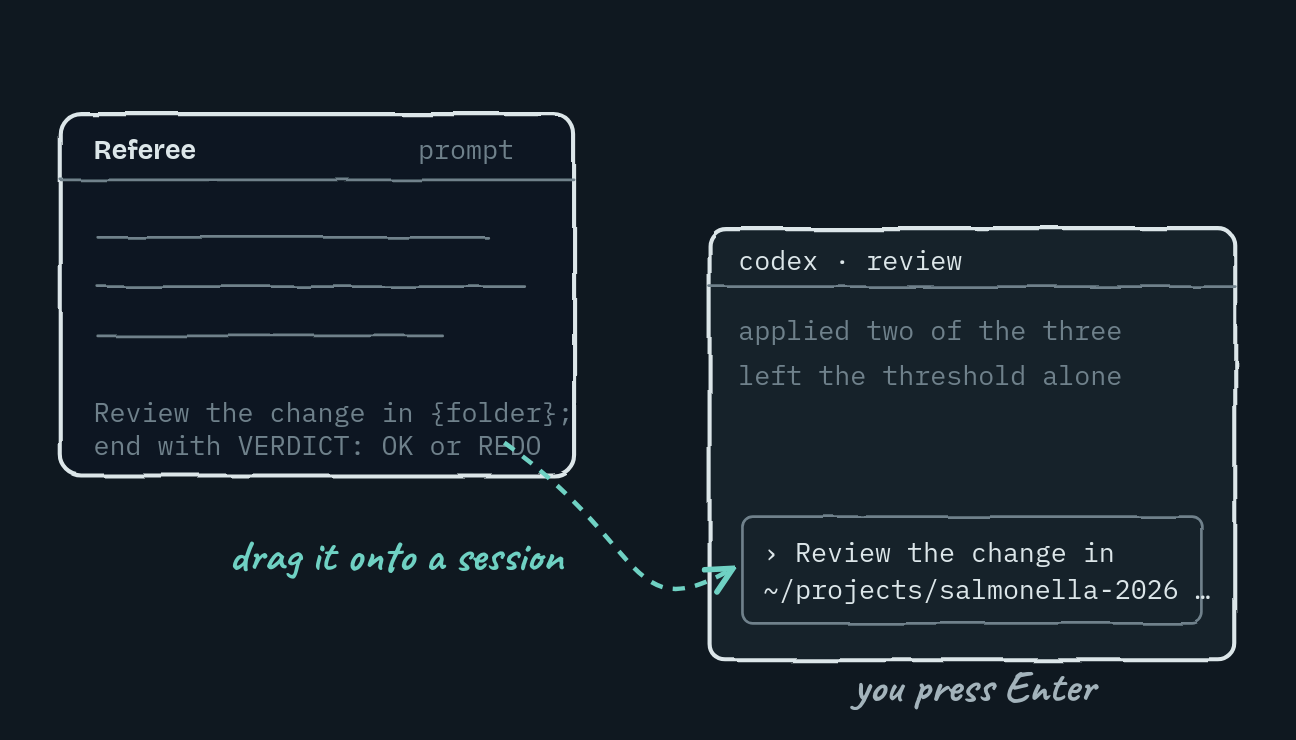
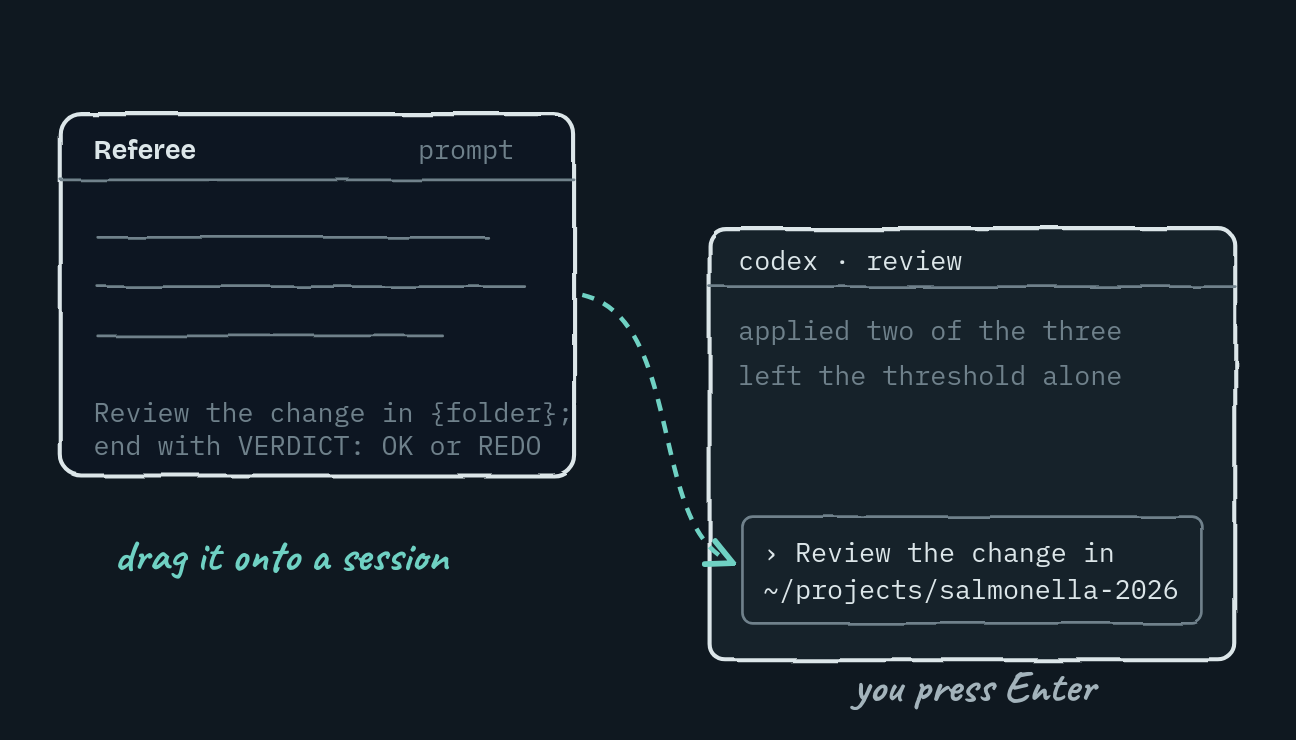
Sketches: the hand-off arrow no longer starts on its own text
It left from the word REDO and covered it; it now leaves the card's edge.
The path in the typed prompt lost its trailing dots, which touched the box,
and the card's small print is a size down so it clears the border.

diff --git a/docs/index.html b/docs/index.html
@@ -452,15 +452,15 @@ details p { color: var(--ink2); margin-top: 10px; max-width: 68ch; }
         </g>
         <text x="30" y="62" font-size="16" font-weight="700" style="font-family: var(--display)">Referee</text>
         <text class="dim" x="188" y="62" font-size="11">prompt</text>
-        <text class="dim" x="30" y="190" font-size="11.5">Review the change in {folder};</text>
-        <text class="dim" x="30" y="206" font-size="11.5">end with VERDICT: OK or REDO</text>
+        <text class="dim" x="30" y="190" font-size="10.5">Review the change in {folder};</text>
+        <text class="dim" x="30" y="206" font-size="10.5">end with VERDICT: OK or REDO</text>
         <text x="344" y="116" font-size="12.5">codex · review</text>
         <text class="dim" x="344" y="150" font-size="11.5">applied two of the three</text>
         <text class="dim" x="344" y="172" font-size="11.5">left the threshold alone</text>
         <text x="356" y="258" font-size="11.5">› Review the change in</text>
-        <text x="356" y="276" font-size="11.5">  ~/projects/salmonella-2026 …</text>
-        <path d="M230 200 C 300 250, 290 290, 340 262" fill="none" stroke-width="2.2" stroke-dasharray="6 5" marker-end="url(#arr)" style="stroke: var(--teal)"/>
-        <text class="hand" x="96" y="262">drag it onto a session</text>
+        <text x="356" y="276" font-size="11.5">  ~/projects/salmonella-2026</text>
+        <path d="M268 128 C 318 140, 300 240, 340 258" fill="none" stroke-width="2.2" stroke-dasharray="6 5" marker-end="url(#arr)" style="stroke: var(--teal)"/>
+        <text class="hand" x="40" y="262">drag it onto a session</text>
         <text class="hand ink" x="400" y="326">you press Enter</text>
       </svg>
     </div>
